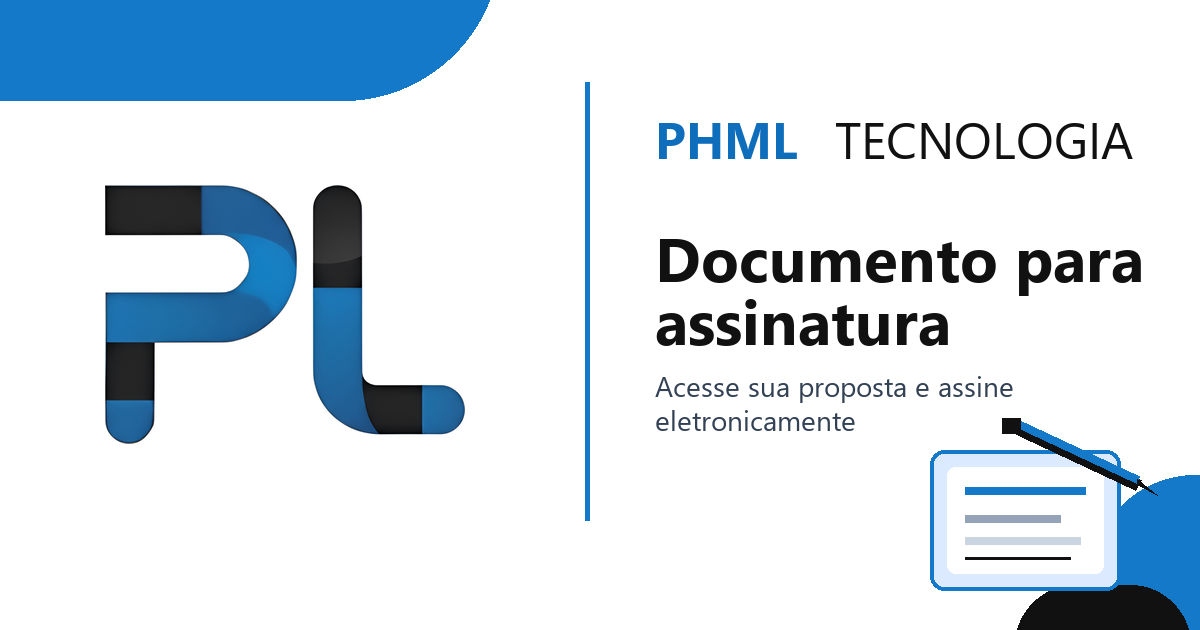
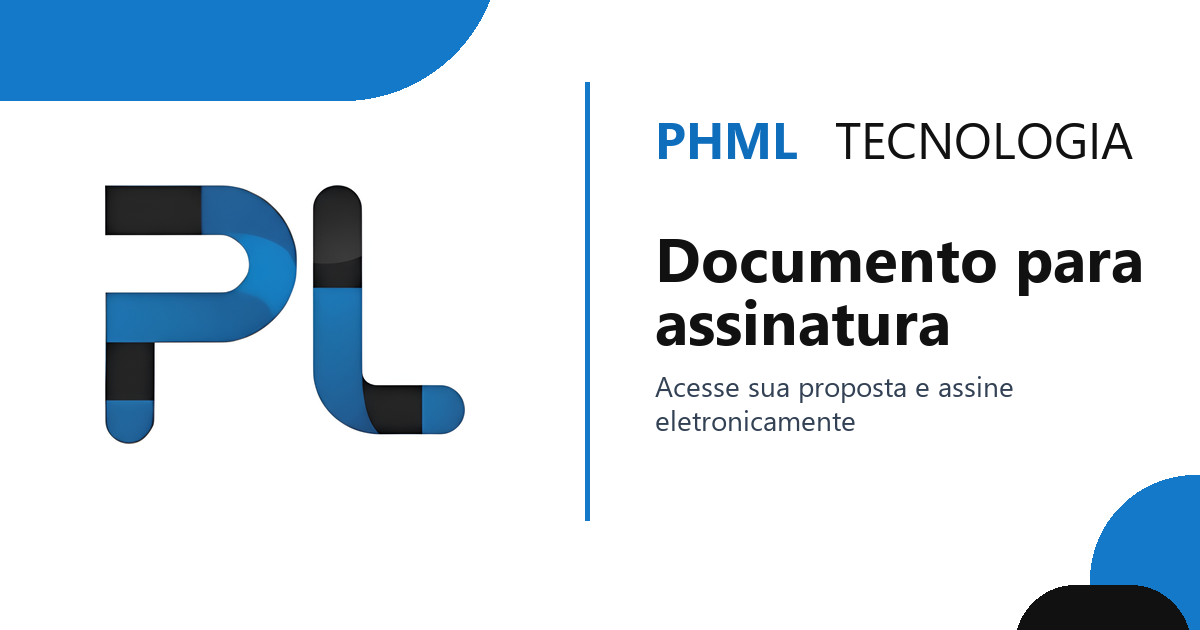
refine: remove signature illustration from og card

Changed region(s): [[0.7708, 0.6635, 0.9558, 0.9651]]

diff --git a/index.html b/index.html
@@ -9,13 +9,13 @@
     <meta property="og:site_name" content="PL Tecnologia" />
     <meta property="og:title" content="Documento para assinatura | PL Tecnologia" />
     <meta property="og:description" content="Acesse sua proposta e assine eletronicamente." />
-    <meta property="og:image" content="https://pl-proposta.vercel.app/og-card.png?v=brand-5" />
+    <meta property="og:image" content="https://pl-proposta.vercel.app/og-card.png?v=brand-6" />
     <meta property="og:image:width" content="1200" />
     <meta property="og:image:height" content="630" />
     <meta name="twitter:card" content="summary_large_image" />
     <meta name="twitter:title" content="Documento para assinatura | PL Tecnologia" />
     <meta name="twitter:description" content="Acesse sua proposta e assine eletronicamente." />
-    <meta name="twitter:image" content="https://pl-proposta.vercel.app/og-card.png?v=brand-5" />
+    <meta name="twitter:image" content="https://pl-proposta.vercel.app/og-card.png?v=brand-6" />
     <title>Documento para assinatura | PL Tecnologia</title>
   </head>
   <body>

diff --git a/scripts/generate_og_card.py b/scripts/generate_og_card.py
@@ -56,20 +56,6 @@ def draw_card():
     draw.text((655, 278), "assinatura", font=title, fill=BLACK)
     draw.text((655, 366), "Acesse sua proposta e assine", font=body, fill=SLATE)
     draw.text((655, 400), "eletronicamente", font=body, fill=SLATE)
-    # Caderno/documento com caneta, reforçando visualmente a ação de assinatura.
-    notebook = (930, 450, 1120, 590)
-    draw.rounded_rectangle(notebook, radius=14, fill="#dbeafe", outline=BLUE, width=4)
-    draw.rounded_rectangle((947, 467, 1103, 573), radius=8, fill="white")
-    draw.rectangle((965, 487, 1085, 494), fill=BLUE)
-    draw.rectangle((965, 515, 1060, 522), fill="#94a3b8")
-    draw.rectangle((965, 537, 1080, 544), fill="#cbd5e1")
-    draw.line((965, 558, 1070, 558), fill=BLACK, width=3)
-
-    # Caneta apoiada na diagonal sobre o caderno.
-    draw.line((1010, 425, 1138, 485), fill=BLACK, width=13)
-    draw.line((1015, 422, 1137, 479), fill=BLUE, width=8)
-    draw.polygon([(1138, 485), (1157, 495), (1137, 479)], fill=BLACK)
-    draw.rectangle((1002, 418, 1020, 433), fill=BLACK)
 
     image.save(OUTPUT, "PNG", optimize=True)
 
